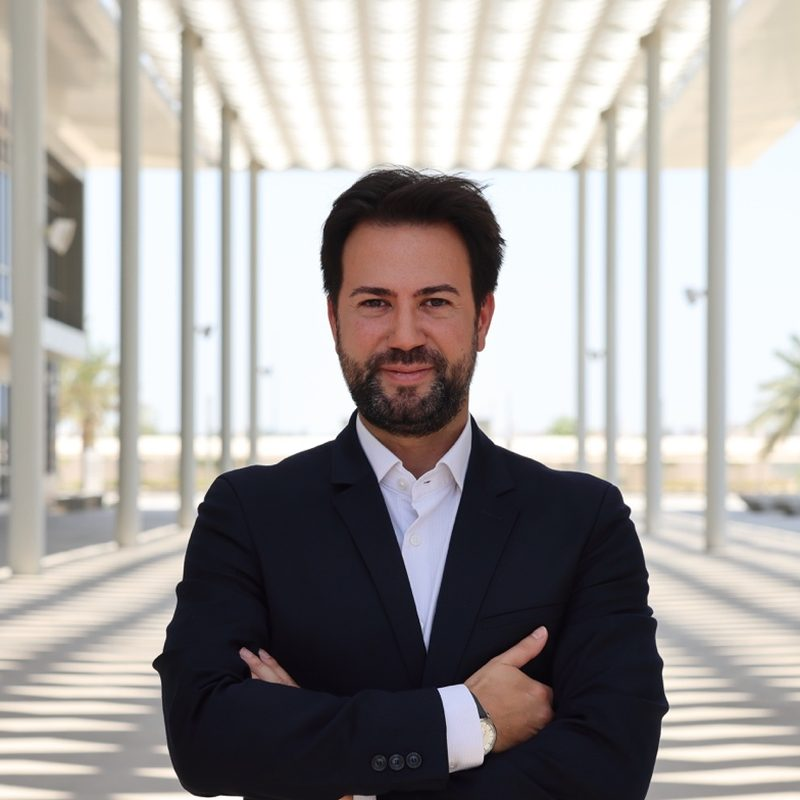
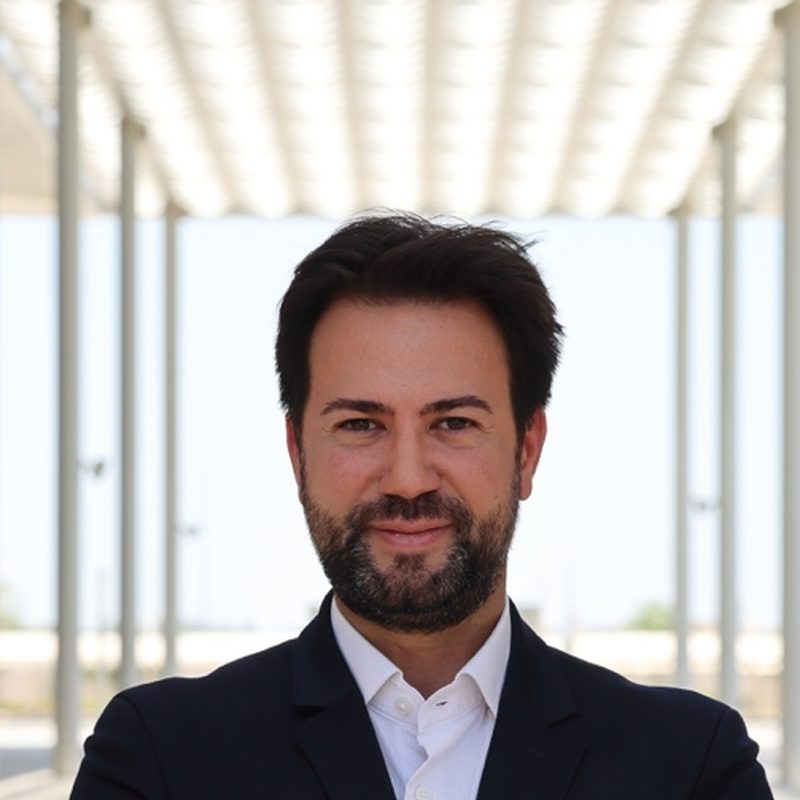
fix: even out the team portraits, and lead the home page with the lab
Photos (feedback from the directors):
- Alex and Maqbool were cropped from wide environmental shots, so their
  faces read much smaller than the studio headshots. Both recropped, 0.78
  and 0.82 of the short side down to 0.50 and 0.58, so all eight faces
  land at a comparable scale.
- Illia's cut-out sat on white beside Danylo's black. Flood-filled the
  background from the borders and composited onto the same black, with the
  mask grown slightly so no white fringe survives around the hair.

Home page:
- The lab teaser moves above the five questions, so the page says who we
  are before what we study.
- 'A new generation of academics' reads as a claim about the people; the
  section is about method, so the heading is now 'How we work'. The phrase
  itself stays in the body, where it is the content document's own wording.

diff --git a/app/page.tsx b/app/page.tsx
@@ -55,6 +55,36 @@ export default function HomePage() {
         </div>
       </section>
 
+      {/* ── About teaser: heading column left, body column right — the
+             split fills the measure with existing content only. ── */}
+      <section className={`${styles.section} band-rule`}>
+        <div className={`container ${styles.aboutSplit}`} data-reveal>
+          <div className={styles.aboutHead}>
+            <h2 className="t-h2">How we work</h2>
+          </div>
+          <div className="prose">
+            <p className="t-lead">
+              The AI Empathy Lab brings together a new generation of academics
+              to investigate how empathic AI, in the form of assistants,
+              agents, and companions, shapes consumer behavior.
+            </p>
+            <p>
+              Our approach is distinctly experimental, and our medium is the
+              voice. We conduct controlled experiments with real, working AI
+              agents and systematically manipulate the dimensions of their
+              behavior that matter most: the empathy they express, the
+              persuasive strategies they employ, and their capacity to
+              remember.
+            </p>
+            <p>
+              <Link href="/about/" className="link-arrow">
+                About the lab <ArrowRight size={16} aria-hidden="true" />
+              </Link>
+            </p>
+          </div>
+        </div>
+      </section>
+
       {/* ── The five questions ── */}
       <section className={styles.section}>
         <div className="container" data-reveal>
@@ -88,36 +118,6 @@ export default function HomePage() {
                 <PublicationCard publication={paper} />
               </div>
             ))}
-          </div>
-        </div>
-      </section>
-
-      {/* ── About teaser: heading column left, body column right — the
-             split fills the measure with existing content only. ── */}
-      <section className={`${styles.section} band-rule`}>
-        <div className={`container ${styles.aboutSplit}`} data-reveal>
-          <div className={styles.aboutHead}>
-            <h2 className="t-h2">A new generation of academics</h2>
-          </div>
-          <div className="prose">
-            <p className="t-lead">
-              The AI Empathy Lab brings together a new generation of academics
-              to investigate how empathic AI, in the form of assistants,
-              agents, and companions, shapes consumer behavior.
-            </p>
-            <p>
-              Our approach is distinctly experimental, and our medium is the
-              voice. We conduct controlled experiments with real, working AI
-              agents and systematically manipulate the dimensions of their
-              behavior that matter most: the empathy they express, the
-              persuasive strategies they employ, and their capacity to
-              remember.
-            </p>
-            <p>
-              <Link href="/about/" className="link-arrow">
-                About the lab <ArrowRight size={16} aria-hidden="true" />
-              </Link>
-            </p>
           </div>
         </div>
       </section>
